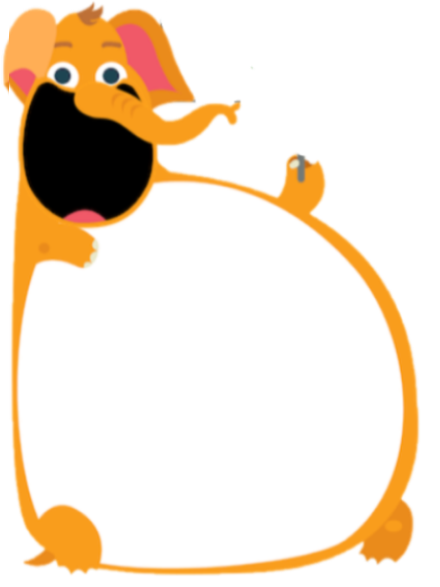
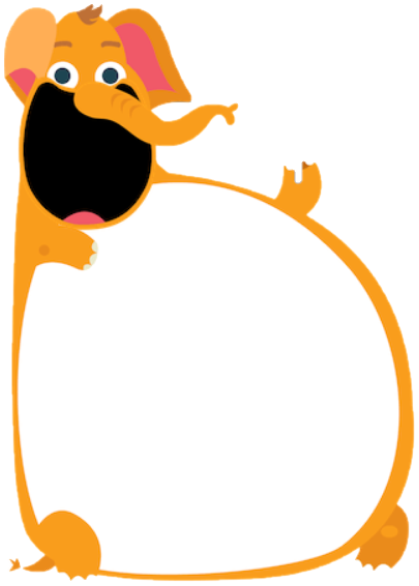
Hoàn thành demo

diff --git a/SceneMain.js b/SceneMain.js
@@ -1,66 +1,294 @@
 class SceneMain extends Phaser.Scene {
-    constructor() {
-        super('SceneMain');
-    }
-    preload()
-    {
-    	this.load.image("voicam","assets/voi cam.png");
-      this.load.image("voicam_ha_mieng","assets/voi cam ha mieng.png");
-      this.load.image("voitim","assets/voi tim.png");
-      this.load.image("voitim_ha_mieng","assets/voi tim ha mieng.png");
-      this.load.image("voido","assets/voi do.png");
-      this.load.image("circle","assets/circle.png");
-      this.load.image("rectangle","assets/rectangle.png");
-      this.load.image("square","assets/square.png");
-      this.load.image("triangle","assets/triangle.png");
+  constructor() {
+    super('SceneMain');
+  }
 
-    }
-    create() {
-    var voicam = this.add.image(250,400,"voicam");
-    var voicam_ha_mieng = this.add.image(255,405,"voicam_ha_mieng");
-    voicam_ha_mieng.visible = false;
-    var voitim = this.add.image(1200,400,"voitim");
-    var circle = this.add.image(600,400,"circle");
-    var triangle = this.add.image(750,400,"triangle");
-    var square = this.add.image(900,400,"square");
-    var rectangle = this.add.image(750,550,"rectangle");
+  preload() {
+    this.load.image("voicam", "assets/voi cam.png");
+    this.load.image("voicam_ha_mieng", "assets/voi cam ha mieng.png");
+    this.load.image("voicamsleep", "assets/voi cam sleep.png");
+    this.load.image("voitim", "assets/voi tim.png");
+    this.load.image("voitim_ha_mieng", "assets/voi tim ha mieng.png");
+    this.load.image("voitimsleep", "assets/voi tim sleep.png");
+    this.load.image("voi_do_trai", "assets/voi do trai.png");
+    this.load.image("voi_do_phai", "assets/voi do phai.png");
+    this.load.image("circle1", "assets/circle1.png");
+    this.load.image("rectangle1", "assets/rectangle1.png");
+    this.load.image("square1", "assets/square1.png");
+    this.load.image("triangle1", "assets/triangle1.png");
+    this.load.image("circle2", "assets/circle2.png");
+    this.load.image("square2", "assets/square2.png");
+    this.load.image("triangle2", "assets/triangle2.png");
+  }
 
-    circle.setInteractive();
-    triangle.setInteractive();
-    square.setInteractive();
-    rectangle.setInteractive();
-    this.input.setDraggable(circle);
-    this.input.setDraggable(triangle);
-    this.input.setDraggable(square);
-    this.input.setDraggable(rectangle);
+  create() {
+    const gameScene = this.scene.get("SceneMain");
+    this.count1 = 0;
+    this.count2 = 0;
+
+    this.voicam = this.add.image(250, 400, "voicam");
+    this.voicam_ha_mieng = this.add.image(250, 400, "voicam_ha_mieng");
+    this.voicam_ha_mieng.visible = false;
+    this.voi_do_trai = this.add.image(250, 400, "voi_do_trai");
+    this.voi_do_trai.visible = false;
+    this.voicamsleep = this.add.image(250, 400, "voicamsleep");
+    this.voicamsleep.visible = false;
+
+    this.voitim = this.add.image(1200, 400, "voitim");
+    this.voitim_ha_mieng = this.add.image(1200, 400, "voitim_ha_mieng");
+    this.voitim_ha_mieng.visible = false;
+    this.voi_do_phai = this.add.image(1200, 400, "voi_do_phai");
+    this.voi_do_phai.visible = false;
+    this.voitimsleep = this.add.image(1200, 400, "voitimsleep");
+    this.voitimsleep.visible = false;
+
+    this.circle1 = this.add.image(600, 400, "circle1").setName('circle');
+    this.triangle1 = this.add.image(750, 450, "triangle1").setName('triangle');
+    this.square1 = this.add.image(900, 400, "square1").setName('square');
+    this.rectangle1 = this.add.image(750, 630, "rectangle1").setName('rectangle');
+    this.circle2 = this.add.image(720, 270, "circle2").setName('circle');
+    this.triangle2 = this.add.image(600, 650, "triangle2").setName('triangle');
+    this.square2 = this.add.image(500, 200, "square2").setName('square');
+    this.rectangle2 = this.add.image(900, 150, "rectangle1").setName('rectangle');
+
+    this.circle1.setInteractive();
+    this.triangle1.setInteractive();
+    this.square1.setInteractive();
+    this.rectangle1.setInteractive();
+    this.circle2.setInteractive();
+    this.triangle2.setInteractive();
+    this.square2.setInteractive();
+    this.rectangle2.setInteractive();
+    this.input.setDraggable(gameScene.circle1);
+    this.input.setDraggable(gameScene.triangle1);
+    this.input.setDraggable(gameScene.square1);
+    this.input.setDraggable(gameScene.rectangle1);
+    this.input.setDraggable(gameScene.circle2);
+    this.input.setDraggable(gameScene.triangle2);
+    this.input.setDraggable(gameScene.square2);
+    this.input.setDraggable(gameScene.rectangle2);
 
     var check = false;
 
-    this.input.on('drag', function (pointer, gameObject, dragX, dragY) {
-        gameObject.x = dragX;
-        gameObject.y = dragY;
-        check = true;
+    //  A drop zone
+    var zone1 = this.add.zone(gameScene.voicam.x, gameScene.voicam.y).setCircleDropZone(200);
+    var zone2 = this.add.zone(gameScene.voitim.x, gameScene.voitim.y).setCircleDropZone(200);
+    this.bungvoicam = [{
+        x: 150,
+        y: 610
+      },
+      {
+        x: 280,
+        y: 600
+      }
+    ];
+
+    this.bungvoitim = [{
+        x: 1200,
+        y: 610
+      },
+      {
+        x: 1200,
+        y: 600
+      }
+    ];
+
+    this.input.on('dragstart', function(pointer, gameObject) {
+
+      this.children.bringToTop(gameObject);
+
+    }, this);
+
+    this.input.on('drag', function(pointer, gameObject, dragX, dragY) {
+      gameObject.x = dragX;
+      gameObject.y = dragY;
+      check = true;
+
     });
-    this.input.on('dragend',()=>check = false)
-
-    var cir = new Phaser.Geom.Circle(100,400,350);
-
-
-    this.input.on('pointermove', function (pointer) {
-
-        if(cir.contains(pointer.x, pointer.y) && check === true)
-        {
-            voicam.visible = false;
-            voicam_ha_mieng.visible = true;
-        }
-        else
-        {
-            voicam.visible = true;
-            voicam_ha_mieng.visible = false;
-        }
+    this.input.on('dragend', function(pointer, gameObject, dropped) {
+      check = false;
+      if (!dropped) {
+        gameObject.x = gameObject.input.dragStartX;
+        gameObject.y = gameObject.input.dragStartY;
+      }
+      if (gameScene.bungvoicam.length === 0) zone1.destroy();
+      if (gameScene.bungvoitim.length === 0) zone2.destroy();
 
     });
 
+
+    this.input.on('drop', function(pointer, gameObject) {
+      check = false;
+      if (voi === 1) {
+        if (gameObject.name === 'triangle') {
+          gameScene.voicam_ha_mieng.visible = true;
+          gameScene.moveToStomatch(voi, gameObject);
+
+        } else {
+          gameScene.voi_do_trai.visible = true;
+          gameScene.voicam.visible = false;
+          setTimeout(function() {
+            gameScene.voi_do_trai.visible = false;
+          }, 1500);
+          gameScene.back(voi, gameObject, gameObject.input.dragStartX, gameObject.input.dragStartY);
+        }
+        //  }
+      }
+
+
+      if (voi === 2) {
+        if (gameObject.name === 'circle') {
+          gameScene.voitim_ha_mieng.visible = true;
+          gameScene.moveToStomatch(voi, gameObject);
+        } else {
+          gameScene.voi_do_phai.visible = true;
+          setTimeout(function() {
+            gameScene.voi_do_phai.visible = false;
+          }, 1500);
+          gameScene.back(voi, gameObject, gameObject.input.dragStartX, gameObject.input.dragStartY);
+        }
+      }
+    });
+
+    var cir1 = new Phaser.Geom.Circle(100, 400, 350);
+    var cir2 = new Phaser.Geom.Circle(1300, 400, 350);
+
+    var voi = 0;
+    this.input.on('pointermove', function(pointer) {
+      if (cir1.contains(pointer.x, pointer.y) && check === true) {
+        gameScene.voicam.visible = false;
+        gameScene.voicam_ha_mieng.visible = true;
+        voi = 1;
+      } else {
+        gameScene.voicam.visible = true;
+        gameScene.voicam_ha_mieng.visible = false;
+      }
+
+      if (cir2.contains(pointer.x, pointer.y) && check === true) {
+        gameScene.voitim.visible = false;
+        gameScene.voitim_ha_mieng.visible = true;
+        voi = 2;
+      } else {
+        gameScene.voitim.visible = true;
+        gameScene.voitim_ha_mieng.visible = false;
+      }
+
+    });
+  }
+
+  update() {
+    if (this.bungvoicam.length === 0) {
+      if(this.count1 < 200)
+        this.count1++;
+      else {
+          this.sleepvoicam();
+        }
+      }
+    if (this.bungvoitim.length === 0) {
+      if(this.count2 < 200)
+        this.count2++;
+      else {
+          this.sleepvoitim();
+        }
     }
-    update() {}
+  }
+
+  back(voi, gameObject, x, y) {
+    if (voi === 1) {
+      this.tweens.timeline({
+        targets: gameObject,
+        ease: 'Linear',
+        tweens: [{
+            x: 100,
+            y: 250,
+            duration: 500
+          },
+          {
+            x: x,
+            y: y,
+            duration: 1000
+          }
+        ]
+      });
+    }
+    if (voi === 2) {
+      this.tweens.timeline({
+        targets: gameObject,
+        ease: 'Power1',
+        tweens: [{
+            x: 1300,
+            y: 250,
+            duration: 500
+          },
+          {
+            x: x,
+            y: y,
+            duration: 1000
+          }
+        ]
+      });
+    }
+  }
+
+  sleepvoicam() {
+    this.triangle1.visible = false;
+    this.triangle2.visible = false;
+    this.voicam.visible = false;
+    this.voicam_ha_mieng.visible = false;
+    this.voicamsleep.visible = true;
+  }
+  sleepvoitim() {
+    this.circle1.visible = false;
+    this.circle2.visible = false;
+    this.voitim.visible = false;
+    this.voitim_ha_mieng.visible = false;
+    this.voitimsleep.visible = true;
+  }
+
+  moveToStomatch(voi, gameObject) {
+    if (voi === 1) {
+      this.tweens.timeline({
+        targets: gameObject,
+        ease: 'Linear',
+        tweens: [{
+            x: 100,
+            y: 250,
+            duration: 200
+          },
+          {
+            x: this.bungvoicam[0].x,
+            y: this.bungvoicam[0].y,
+            scaleX: 0.5,
+            scaleY: 0.5,
+            angle: 180,
+            ease: 'Bounce.easeOut',
+            duration: 3000
+          }
+        ]
+      });
+      this.bungvoicam.shift();
+    }
+    if (voi === 2) {
+      this.tweens.timeline({
+        targets: gameObject,
+        ease: 'Power1',
+        tweens: [{
+            x: 1300,
+            y: 250,
+            duration: 200
+          },
+          {
+            x: this.bungvoitim[0].x,
+            y: this.bungvoitim[0].y,
+            scaleX: 0.5,
+            scaleY: 0.5,
+            angle: 180,
+            ease: 'Bounce.easeOut',
+            duration: 3000
+          }
+        ]
+      });
+      this.bungvoitim.shift();
+    }
+  }
 }

diff --git a/index.html b/index.html
@@ -10,7 +10,5 @@
 </head>
 <body>
 
-<!-- <div id='phaser-game'></div> -->
-
 </body>
 </html>
